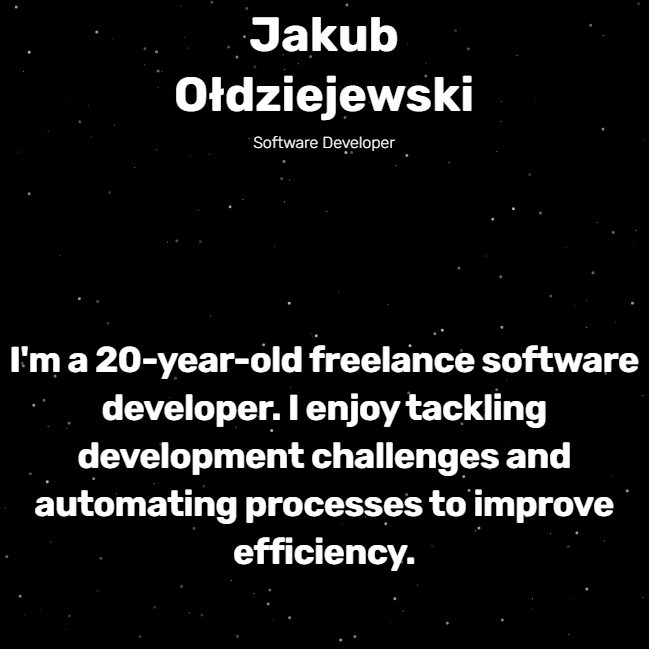
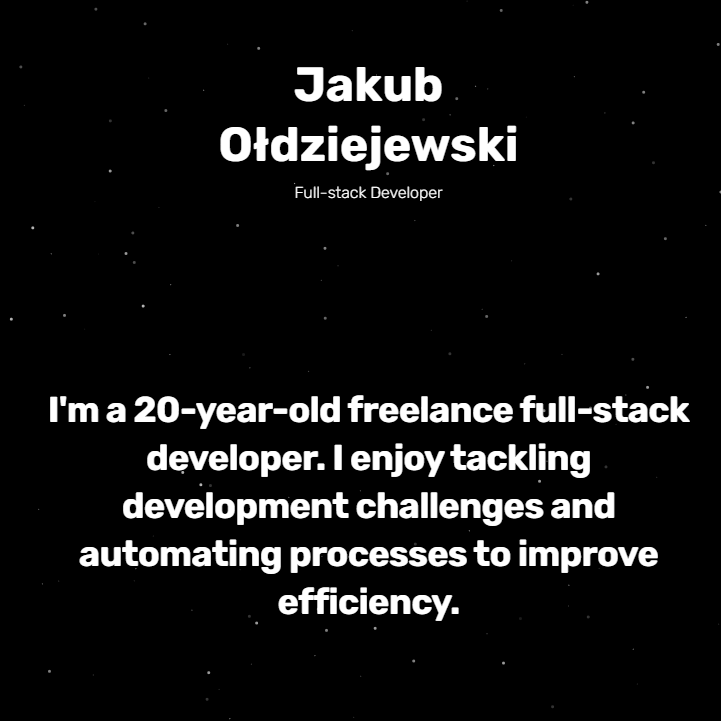
portfolio, projects

Changed region(s): [[0.0, 0.5239, 0.9861, 0.8937], [0.2465, 0.0, 0.7396, 0.2773]]

diff --git a/frontend/src/pages/Portfolio/Project.jsx b/frontend/src/pages/Portfolio/Project.jsx
@@ -7,6 +7,8 @@ import ImgHagaPolska from "@/assets/images/ProjectsImages/hagapolska.png"
 import ImgHagaPolskaMobile from "@/assets/images/ProjectsImages/hagapolska_mobile.png"
 import ImgDarts from "@/assets/images/ProjectsImages/darts.png"
 import ImgDartsMobile from "@/assets/images/ProjectsImages/darts_mobile.png"
+import ImgOldziej from "@/assets/images/ProjectsImages/oldziej.png"
+import ImgOldziejMobile from "@/assets/images/ProjectsImages/oldziej_mobile.png"
 import { useContext, useEffect, useState } from 'react';
 import { motion } from 'framer-motion';
 import { SquareArrowOutUpRight } from 'lucide-react';
@@ -52,6 +54,16 @@ function Project() {
       ]);
     } else if (projectName === "darts") {
       setMainImage(isMobile ? ImgDartsMobile : ImgDarts);
+      setMainLink({text: "oldziej.pl/darts", href: 'https://oldziej.pl/darts'});
+      setDesignedBy('Jakub Ołdziejewski')
+      setTechStackIcons([
+        <SiReact key={'#61DAFB'} width={46} height={46} fill='#61DAFB' />,
+        <SiExpress key={'#FFFFFF'} width={46} height={46} fill='#FFFFFF' />,
+        <SiTailwindcss key={'#06B6D4'} width={46} height={46} fill='#06B6D4' />,
+        <SiSass key={'#CC6699'} width={46} height={46} fill='#CC6699' />,
+      ]);
+    } else if (projectName === "oldziej") {
+      setMainImage(isMobile ? ImgOldziejMobile : ImgOldziej);
       setMainLink({text: "oldziej.pl/darts", href: 'https://oldziej.pl/darts'});
       setDesignedBy('Jakub Ołdziejewski')
       setTechStackIcons([

diff --git a/frontend/src/assets/text.js b/frontend/src/assets/text.js
@@ -8,7 +8,7 @@ export const textData = {
       "projects": "Projekty"
     },
     "landingPage": {
-      "desc": `Jestem ${new Date().getFullYear() - 2004}-letnim freelance software developerem. Lubię rozwiązywać problemy programistyczne i automatyzować procesy w celu zwiększenia wydajności.`,
+      "desc": `Jestem ${new Date().getFullYear() - 2004}-letnim freelance full-stack developerem. Lubię rozwiązywać problemy programistyczne i automatyzować procesy w celu zwiększenia wydajności.`,
     },
     "experience": {
       "button": "Projekty",
@@ -42,7 +42,7 @@ export const textData = {
       "projects": "Projects"
     },
     "landingPage": {
-      "desc": `I'm a ${new Date().getFullYear() - 2004}-year-old freelance software developer. I enjoy tackling development challenges and automating processes to improve efficiency.`,
+      "desc": `I'm a ${new Date().getFullYear() - 2004}-year-old freelance full-stack developer. I enjoy tackling development challenges and automating processes to improve efficiency.`,
     },
     "experience": {
       "button": "Projects",

diff --git a/frontend/src/components/Portfolio/LandingPage.jsx b/frontend/src/components/Portfolio/LandingPage.jsx
@@ -15,7 +15,7 @@ function LandingPage({ landingPageRef }) {
           <FadeText className='text-5xl font-bold' text='Jakub' framerProps={{ show: { transition: { delay: 0.3 } } }} />
           <FadeText className='text-5xl font-bold' text='Ołdziejewski' framerProps={{ show: { transition: { delay: 0.6 } } }} />
           <BoxReveal duration={1}>
-            Software Developer
+            Full-stack Developer
           </BoxReveal>
         </div>
         <motion.div
